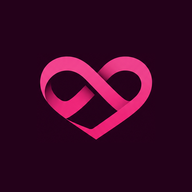
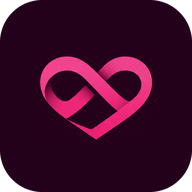
Nova senha: botão Voltar ao login; ícones da aba com cantos arredondados
Claude-Session: https://claude.ai/code/session_01PAgDhWWXLXDkZdJmgZFrZt

diff --git a/index.html b/index.html
@@ -220,6 +220,7 @@
       <!-- ============ TELA: NOVA SENHA ============ -->
       <section class="screen screen--auth" data-screen="newpass">
         <div class="au">
+          <button type="button" class="btn btn--back au-back" id="newpassBack" aria-label="Voltar ao login"><svg xmlns="http://www.w3.org/2000/svg" width="24" height="24" viewBox="0 0 24 24" fill="none" stroke="currentColor" stroke-width="2" stroke-linecap="round" stroke-linejoin="round" aria-hidden="true"><path d="m12 19-7-7 7-7"/><path d="M19 12H5"/></svg>Voltar ao login</button>
           <div class="au-grid">
           <div class="au-hero">
             <div class="au-brand">Ponto a Dois</div>

diff --git a/auth.js b/auth.js
@@ -361,6 +361,7 @@
     $("#signupForm").addEventListener("submit", onSignup);
     $("#completeForm").addEventListener("submit", onComplete);
     $("#newpassForm").addEventListener("submit", onNewPass);
+    $("#newpassBack").addEventListener("click", async () => { await client.auth.signOut(); renderHomeUser(); app().goTo("login"); });
     $("#forgotBtn").addEventListener("click", onForgot);
     $$("[data-auth='google']").forEach((b) => b.addEventListener("click", onGoogle));
     $("#completeLogout").addEventListener("click", signOut);
